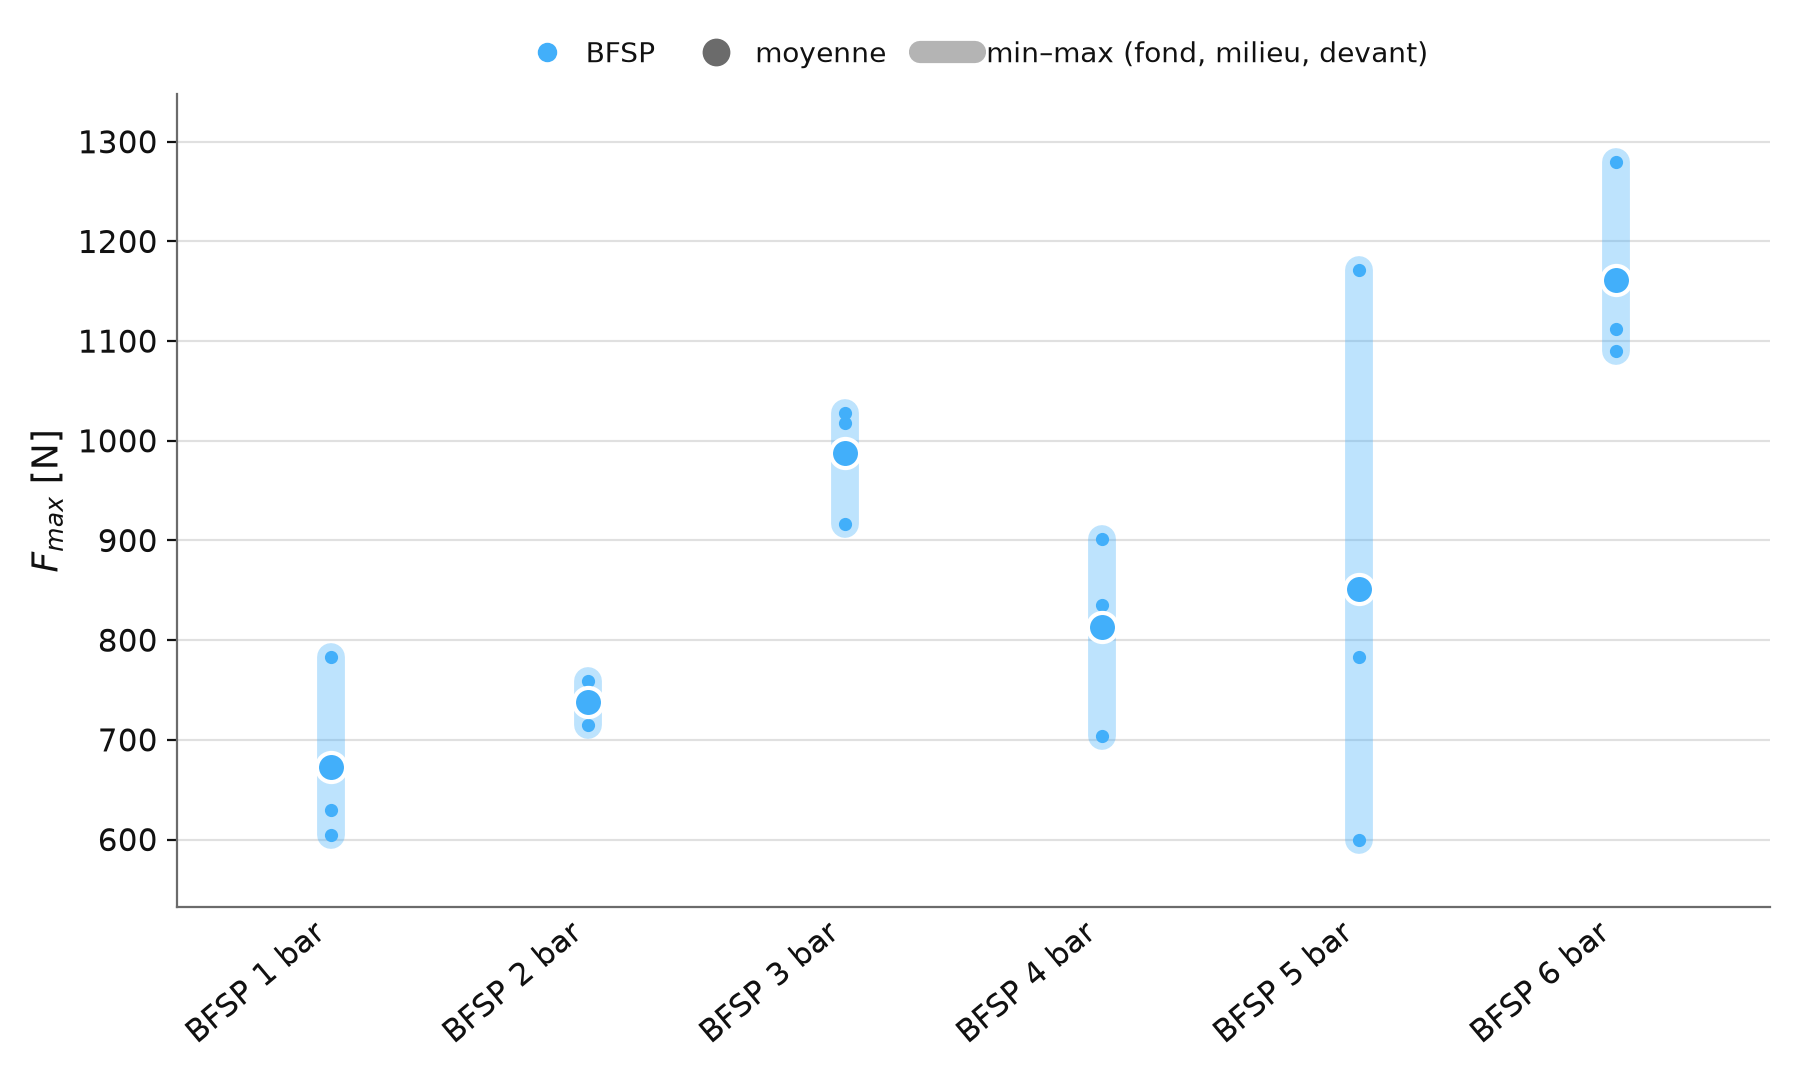
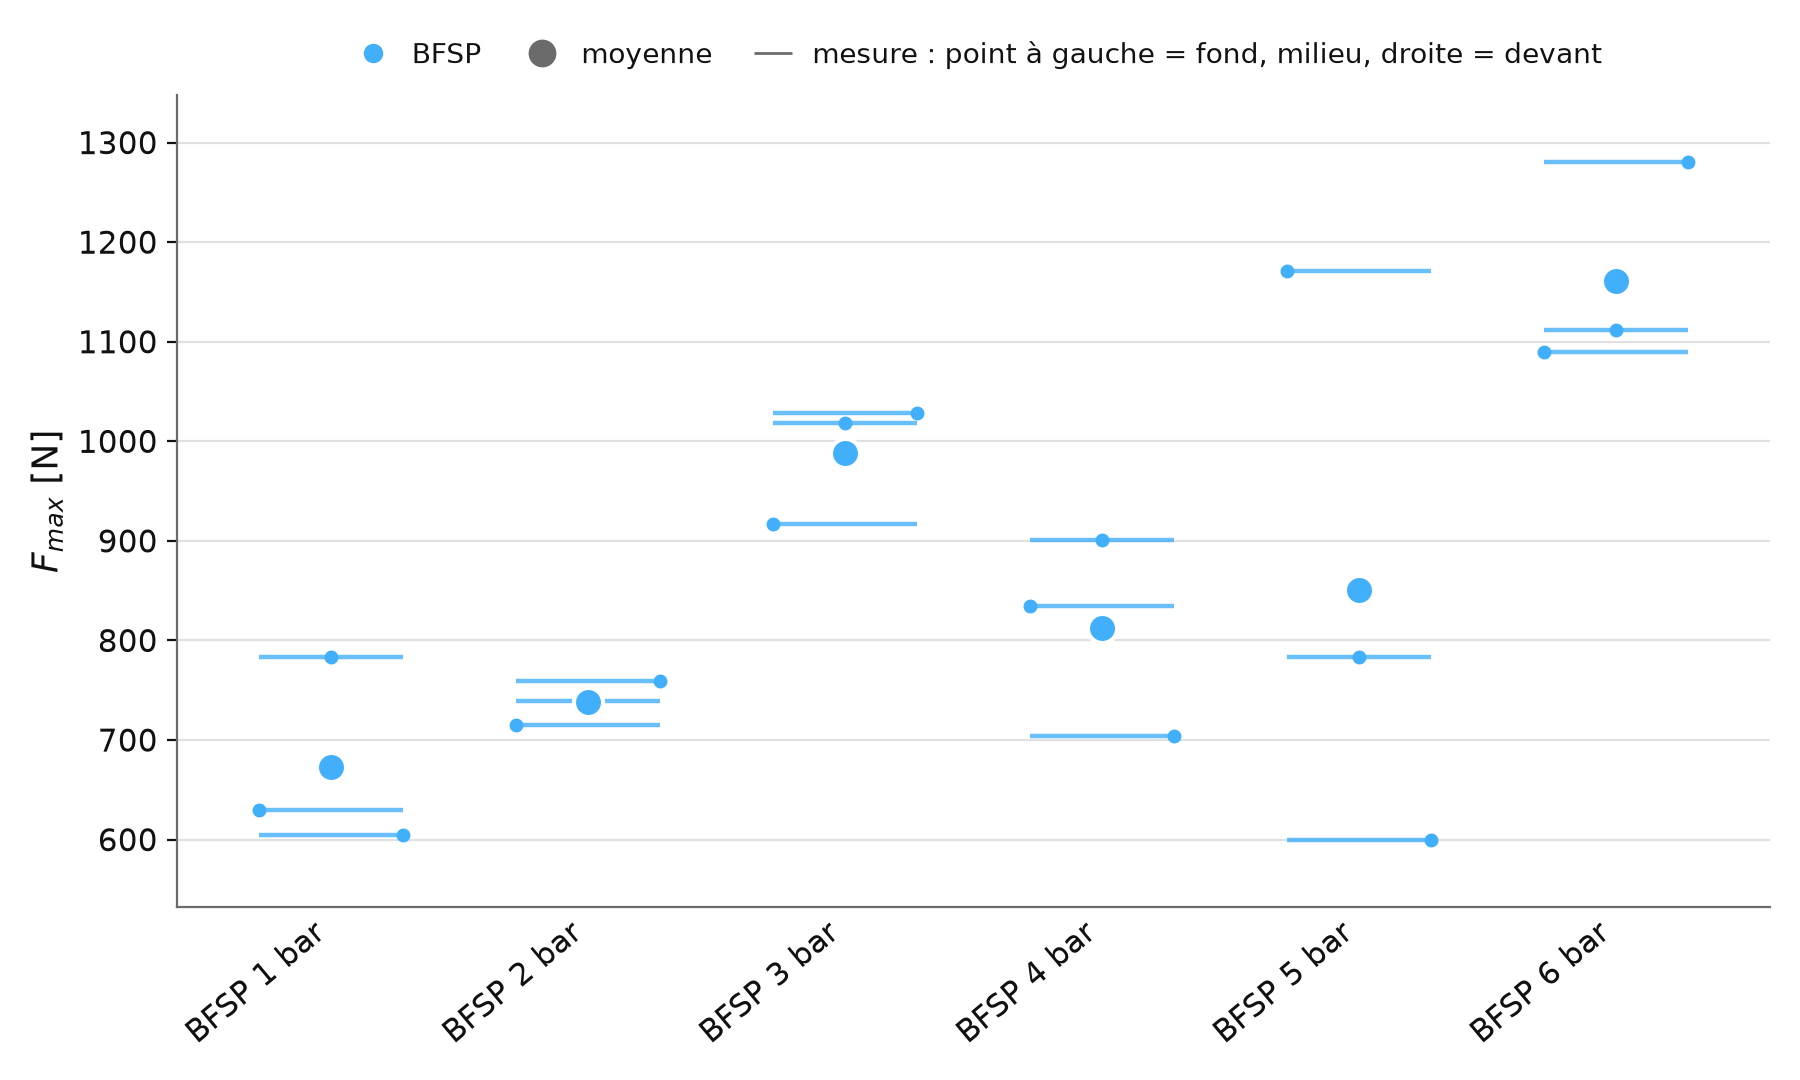
Per-measurement short lines with left/middle/right dots

diff --git a/scripts/plot_scatter.py b/scripts/plot_scatter.py
@@ -2,7 +2,8 @@
 
 Big dot = mean per sample, read from the first tbl-1 / tbl-2 / tbl-3 table in index.html.
 Where data/raw.csv has the three measurements (fond, milieu, devant) for a sample, a
-translucent bar spans min-max and three tiny dots mark the individual values.
+short horizontal line is drawn per measurement; a dot on its left / middle / right end
+marks fond / milieu / devant.
 Colour = method (BFSP, BBox, BF main).
 
 Writes figures/{masse,permeabilite,cisaillement}_{light,dark}.png and
@@ -28,6 +29,7 @@ PLOTS = [
     ("cisaillement", "tbl-3", r"$F_{max}$ [N]", None),
     ("cisaillement_bfsp", "tbl-3", r"$F_{max}$ [N]", {"BFSP"}),
 ]
+HALF = 0.28
 COLORS = {"BFSP": "#42affa", "BBox": "#ff9f43", "BF main": "#4cd97b"}
 THEMES = {
     "dark": dict(bg="#000000", fg="#ffffff", muted="#898781", grid=(1, 1, 1, 0.12)),
@@ -67,9 +69,12 @@ for out_name, table_id, label, keep in PLOTS:
             col = COLORS[group_of(name)]
             vals = raw.get(q, {}).get(name)
             if vals:
-                ax.vlines(x, min(vals), max(vals), color=col, alpha=0.35, linewidth=10,
-                          capstyle="round", zorder=2)
-                ax.scatter([x] * 3, vals, s=14, color=col, zorder=4)
+                # one short horizontal line per measurement; the dot sits on its left
+                # (fond), middle (milieu) or right (devant) end
+                for dot_x, v in zip((x - HALF, x, x + HALF), vals):
+                    ax.hlines(v, x - HALF, x + HALF, color=col, linewidth=1.6, alpha=0.8,
+                              zorder=3)
+                    ax.scatter(dot_x, v, s=16, color=col, zorder=4)
             ax.scatter(x, mean, s=110, color=col, edgecolor=c["bg"], linewidth=1.5, zorder=5)
         ax.set_xticks(range(len(pts)), [n for n, _ in pts], rotation=40, ha="right",
                       color=c["fg"], fontsize=11)
@@ -88,8 +93,8 @@ for out_name, table_id, label, keep in PLOTS:
                    for g, col in COLORS.items() if keep is None or g in keep]
         handles += [Line2D([], [], marker="o", linestyle="", color=c["muted"], markersize=9,
                            label="moyenne"),
-                    Line2D([], [], color=c["muted"], alpha=0.5, linewidth=8,
-                           solid_capstyle="round", label="min–max (fond, milieu, devant)")]
+                    Line2D([], [], marker="_", markersize=14, linestyle="", color=c["muted"],
+                           label="mesure : point à gauche = fond, milieu, droite = devant")]
         ax.legend(handles=handles, loc="lower center", bbox_to_anchor=(0.5, 1.0),
                   ncol=len(handles), frameon=False, fontsize=10, labelcolor=c["fg"],
                   columnspacing=1.2, handletextpad=0.4)
